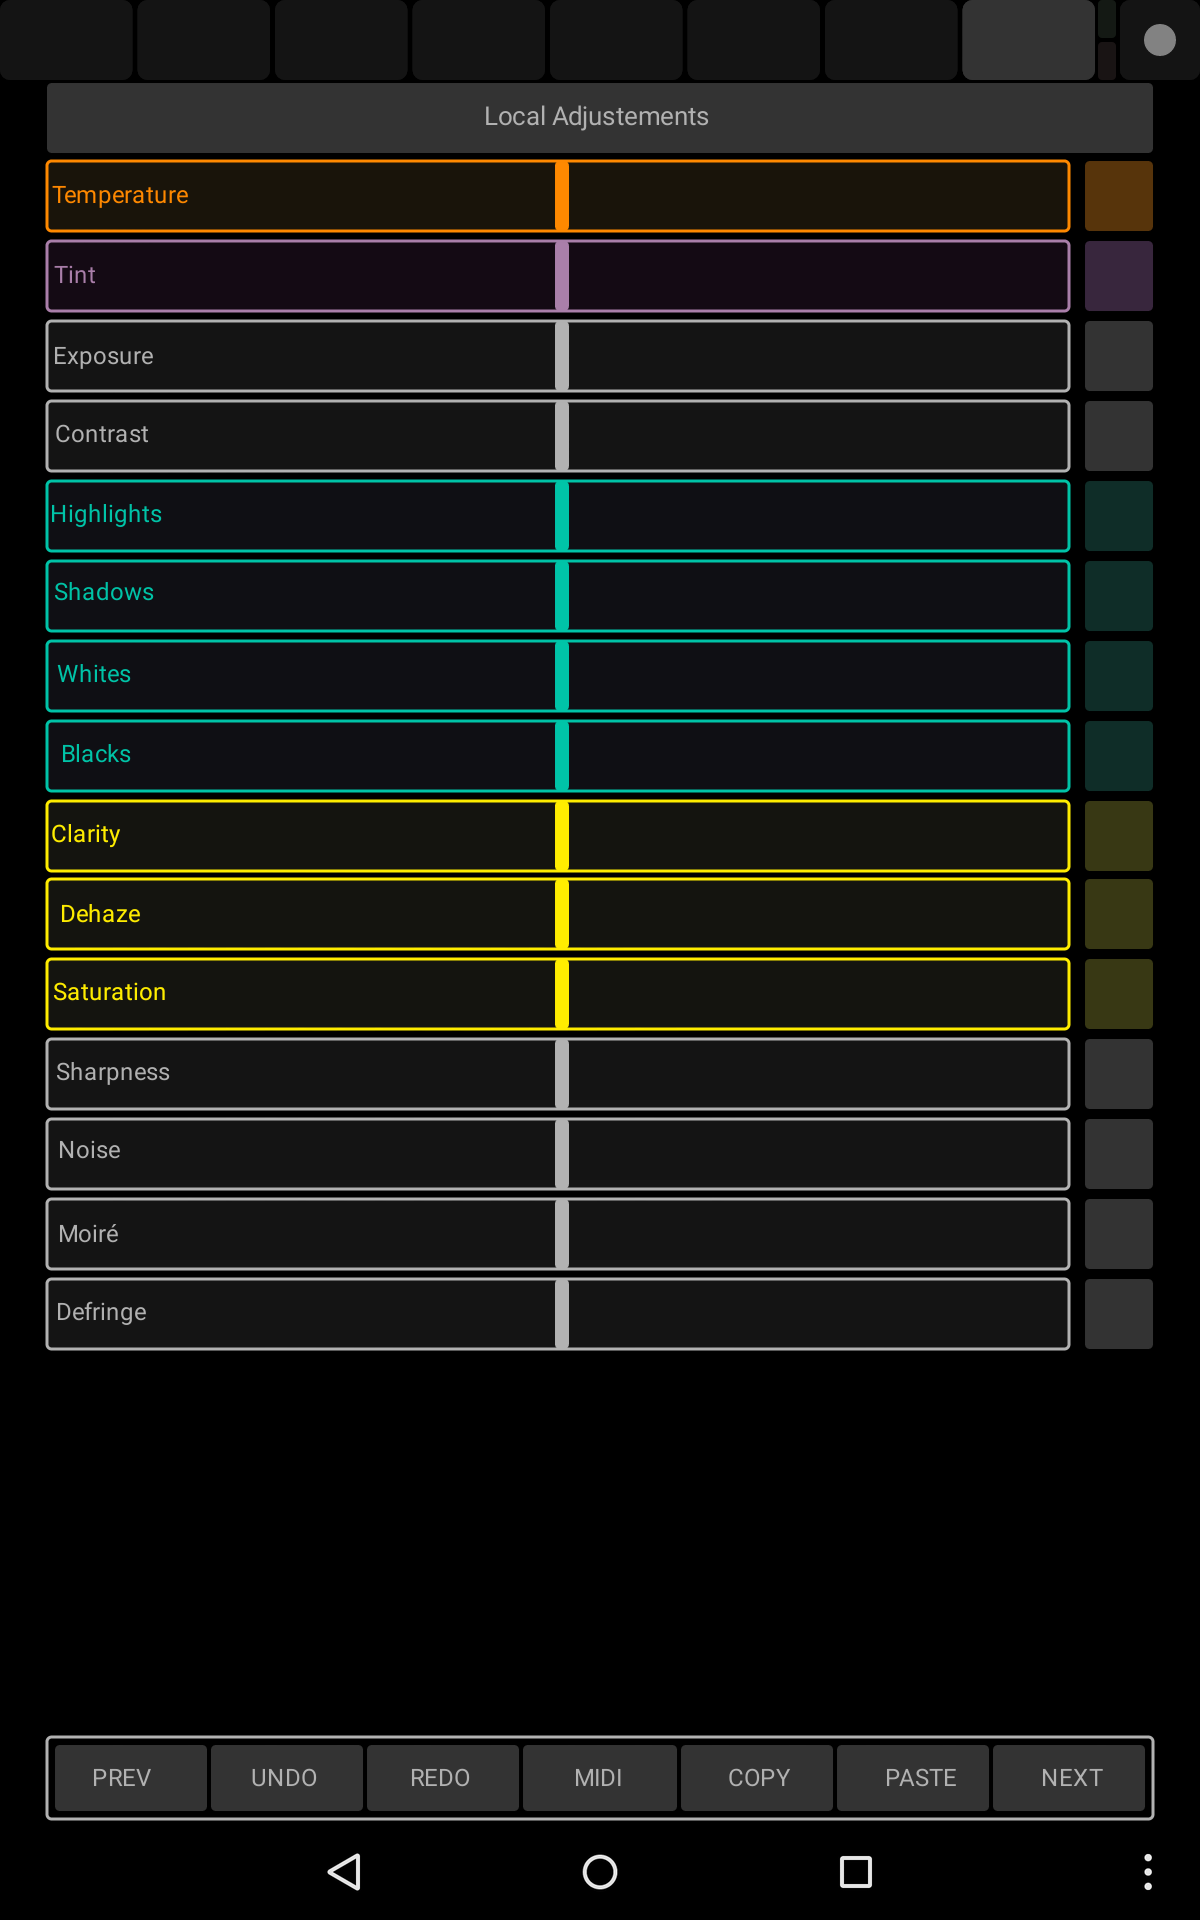
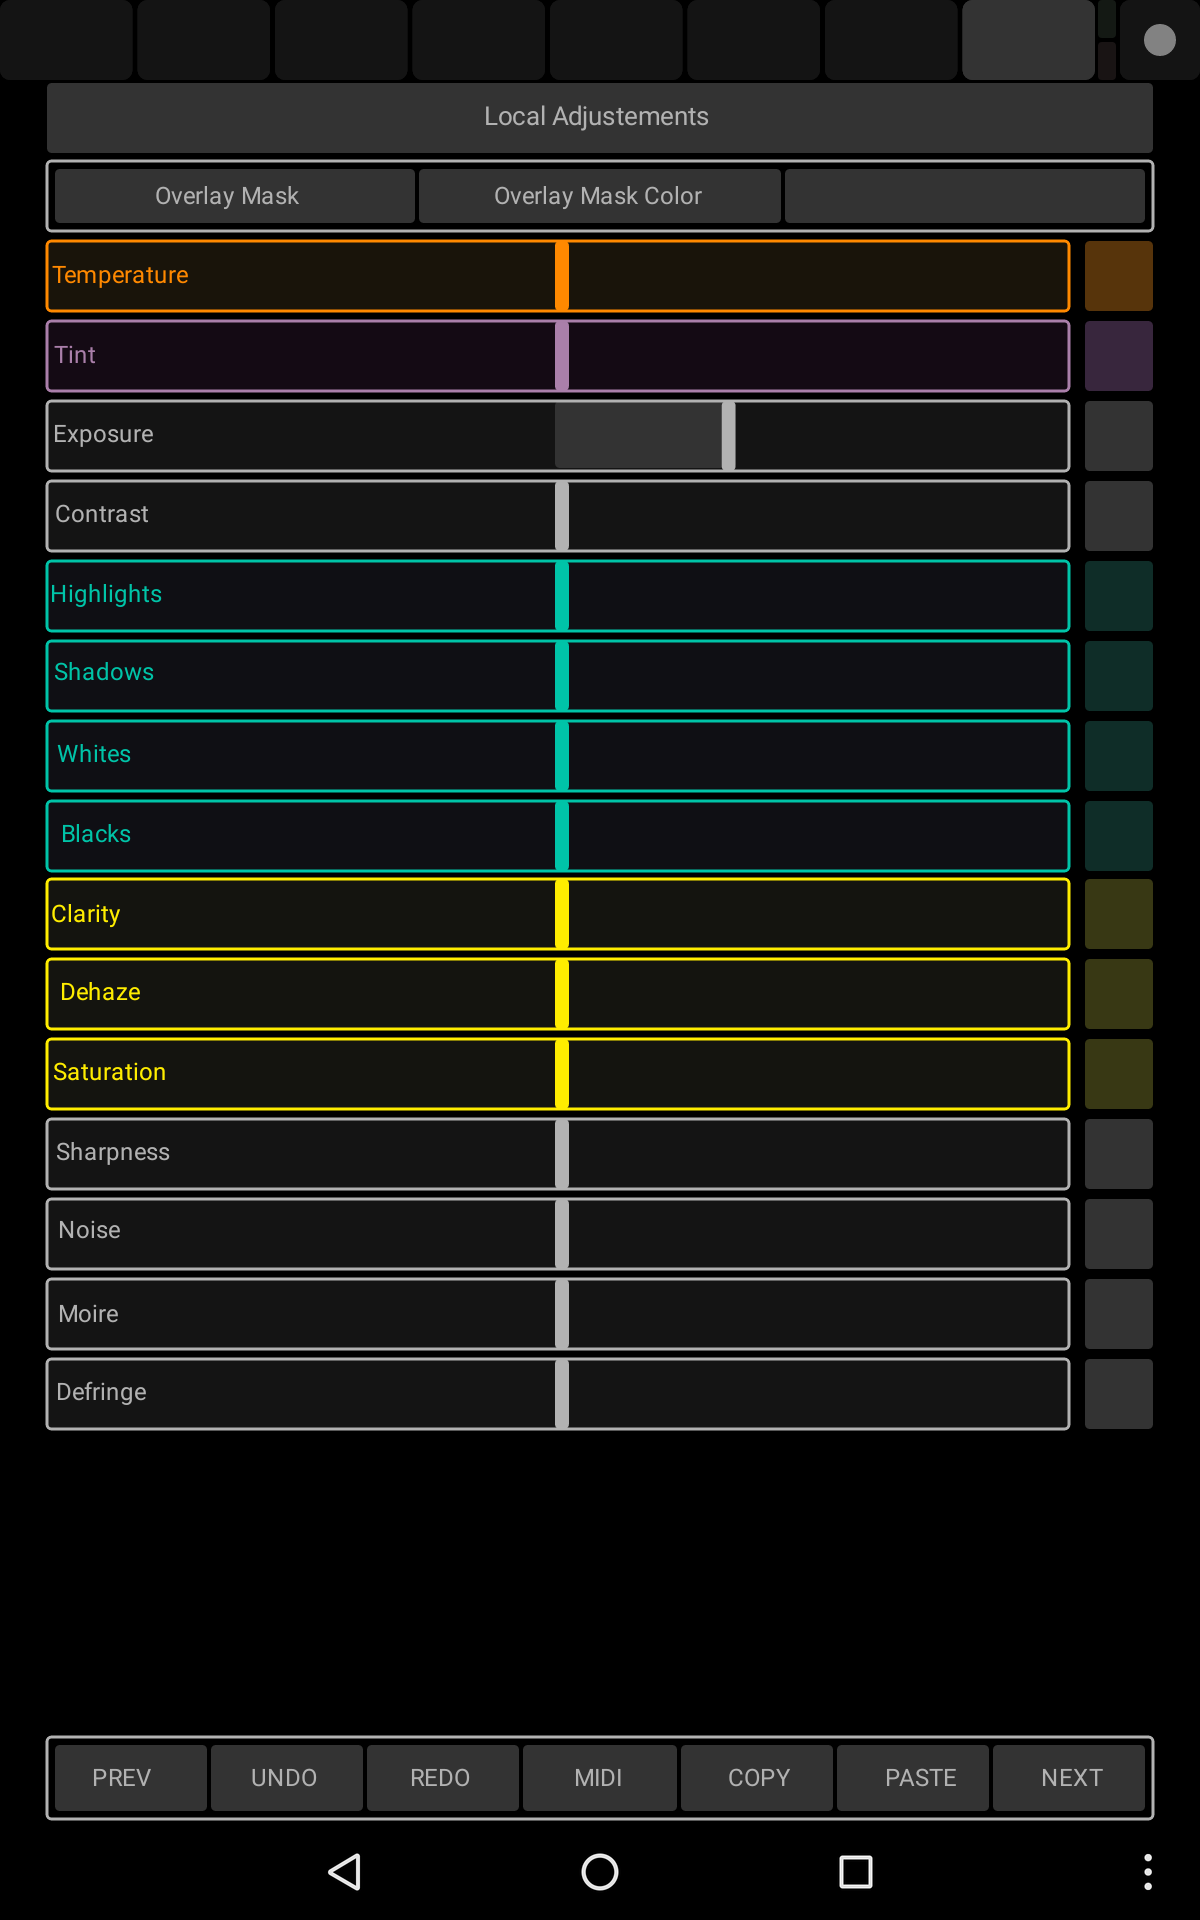
:heavy_plus_sign: #307: Support Overlay Mask Show/Hide and Color Cycling

diff --git a/Source/LRCommands.cpp b/Source/LRCommands.cpp
@@ -530,6 +530,8 @@ const std::vector<std::string> LRCommandList::LocalAdjustments = {
     "Reset Brush Corrections",
     "Reset Red-Eye",
     "Reset Spot Removal",
+    "Show Mask Overlay",
+    "Cycle Mask Overlay Color",
 };
 
 const std::vector<std::string> LRCommandList::Crop = {
@@ -1054,6 +1056,8 @@ const std::vector<std::string> LRCommandList::LRStringList = {
     "ResetBrushing",
     "ResetRedeye",
     "ResetSpotRem",
+    "ShowMaskOverlay",
+    "CycleMaskOverlayColor",
     /* Crop */
     "straightenAngle",
     "CropAngle",
